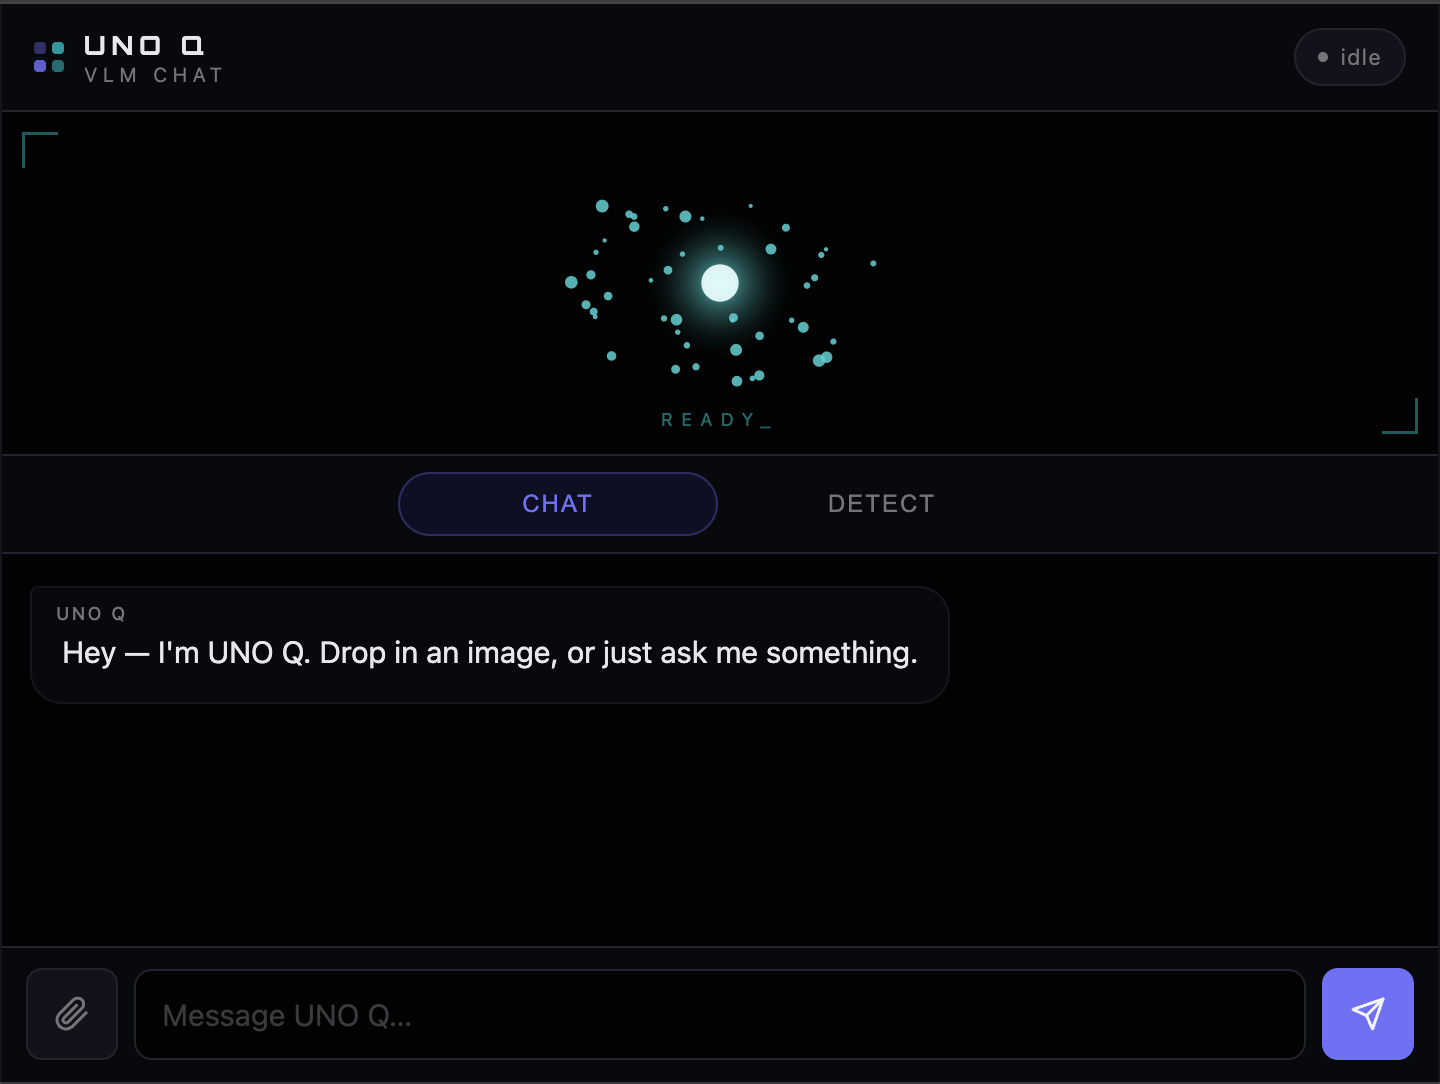
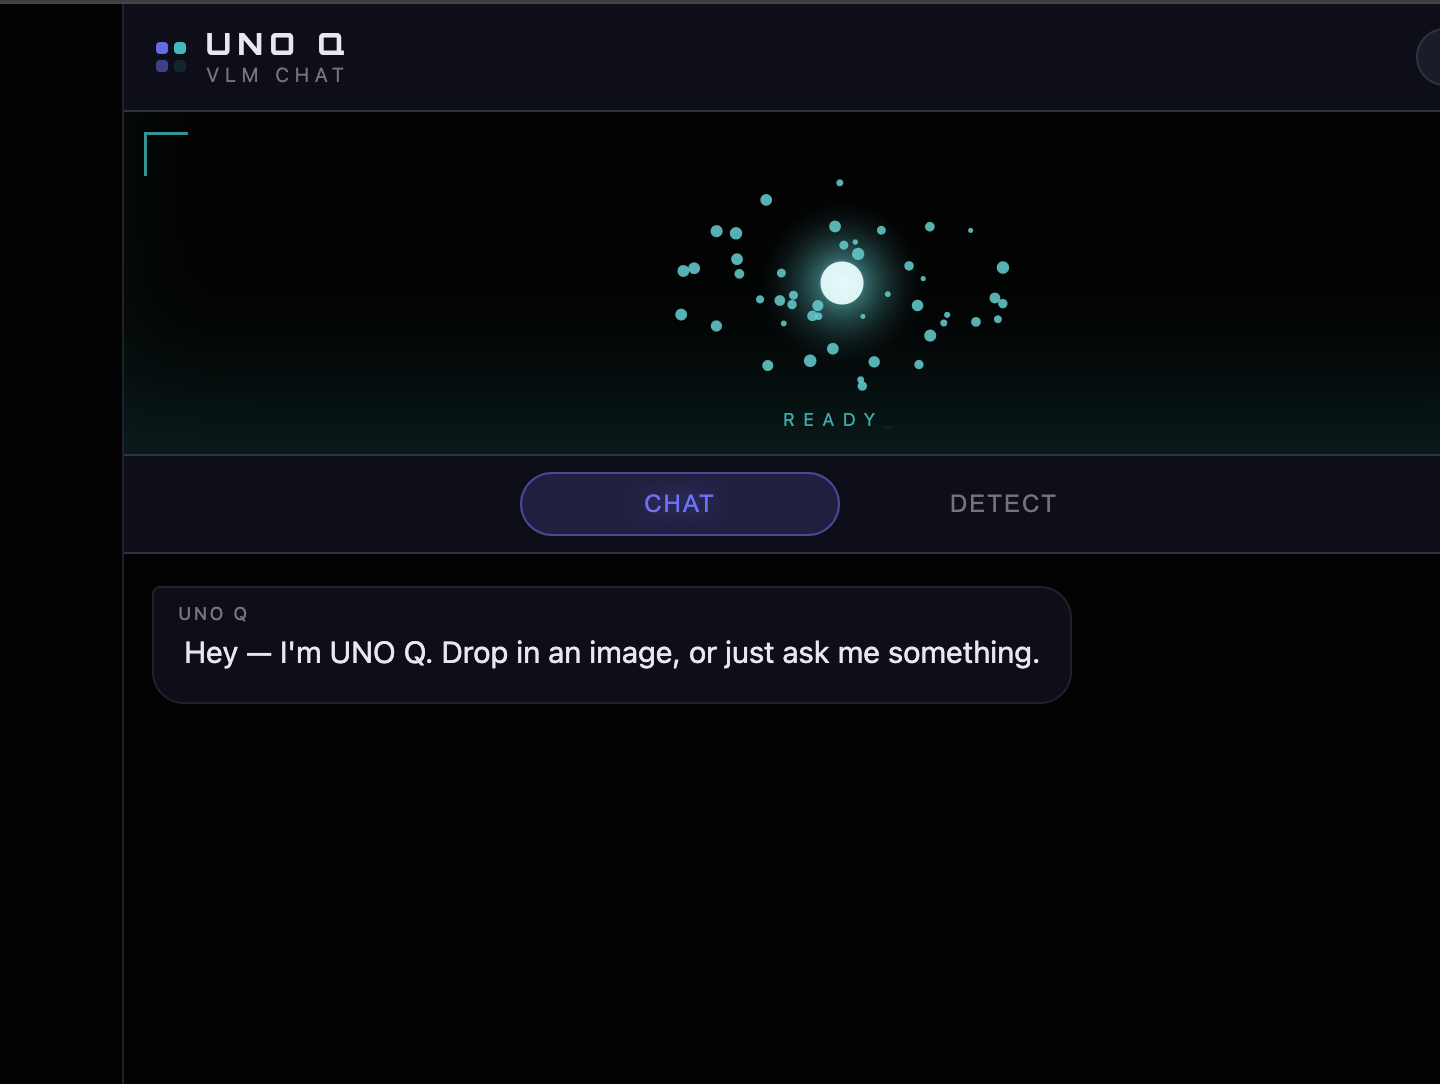
design: more depth and contrast — surfaces, stage ambient, tab glow
- Surface ramp much more legible (L 0.09→0.17→0.23 vs flat 0.09→0.14→0.19)
- Background gradient nodes at L=0.38 (were at L=0.18, barely visible)
- Teal ambient inset shadow in stage — orb feels illuminated
- Corner brackets 75% opacity, larger (22px)
- CHAT tab: violet border + text-shadow glow when active
- Blink animation: full 0→1 swing on dot mark
- Send button violet glow on hover
- User bubble border more visible

diff --git a/uno-q-vlm-chat/assets/style.css b/uno-q-vlm-chat/assets/style.css
@@ -15,10 +15,10 @@
 
   /* Surface ramp */
   --bg:        oklch(0.09  0.000   0);   /* near-black body */
-  --surface:   oklch(0.14  0.010 278);   /* panel bg */
-  --surface2:  oklch(0.19  0.015 278);   /* raised / hover */
-  --border:    oklch(0.26  0.018 278);   /* hairline separators */
-  --border-sub:oklch(0.20  0.012 278);   /* subtler inner borders */
+  --surface:   oklch(0.17  0.020 278);   /* panel bg */
+  --surface2:  oklch(0.23  0.028 278);   /* raised / hover */
+  --border:    oklch(0.32  0.028 278);   /* hairline separators */
+  --border-sub:oklch(0.25  0.018 278);   /* subtler inner borders */
 
   /* Text */
   --ink:       oklch(0.93  0.008 280);   /* body text ≥7:1 on bg */
@@ -28,7 +28,7 @@
   /* Brand */
   --primary:   oklch(0.62  0.200 278);   /* violet — CTA, active, focus */
   --primary-hi:oklch(0.68  0.195 278);   /* hover lift */
-  --primary-lo:oklch(0.18  0.040 278);   /* tinted surface (user bubble bg) */
+  --primary-lo:oklch(0.21  0.080 278);   /* tinted surface (user bubble bg) */
   --on-primary:oklch(0.97  0.000   0);   /* text on filled primary */
   --accent:    oklch(0.74  0.145 195);   /* teal — secondary / detecting */
 
@@ -58,10 +58,10 @@
     color-scheme: light;
 
     --bg:        oklch(0.97  0.000   0);
-    --surface:   oklch(0.93  0.010 278);
-    --surface2:  oklch(0.89  0.016 278);
-    --border:    oklch(0.80  0.020 278);
-    --border-sub:oklch(0.86  0.014 278);
+    --surface:   oklch(0.91  0.014 278);
+    --surface2:  oklch(0.86  0.020 278);
+    --border:    oklch(0.76  0.024 278);
+    --border-sub:oklch(0.82  0.016 278);
 
     --ink:       oklch(0.16  0.015 278);
     --muted:     oklch(0.45  0.010 278);
@@ -69,7 +69,7 @@
 
     --primary:   oklch(0.48  0.220 278);
     --primary-hi:oklch(0.43  0.215 278);
-    --primary-lo:oklch(0.91  0.030 278);
+    --primary-lo:oklch(0.88  0.055 278);
     --on-primary:oklch(0.97  0.000   0);
     --accent:    oklch(0.50  0.150 195);
 
@@ -102,13 +102,13 @@ body {
   min-height: 100dvh;
 }
 
-/* Very subtle depth — two faint violet radial nodes. Not a hero, not glow-for-glow. */
+/* Ambient depth — visible radial nodes that read on near-black */
 body::before {
   content: "";
   position: fixed; inset: 0; z-index: 0; pointer-events: none;
   background:
-    radial-gradient(ellipse 60% 40% at 85% 0%,   oklch(0.18 0.06 278 / 0.5), transparent 60%),
-    radial-gradient(ellipse 50% 35% at 10% 100%,  oklch(0.18 0.05 195 / 0.4), transparent 55%);
+    radial-gradient(ellipse 80% 65% at 100% -5%,  oklch(0.38 0.15 278 / 0.55), transparent 65%),
+    radial-gradient(ellipse 65% 55% at  -5% 108%, oklch(0.34 0.12 195 / 0.48), transparent 60%);
 }
 
 /* ─── App shell ──────────────────────────────────────────────────────────── */
@@ -139,19 +139,19 @@ body::before {
 }
 .dot-mark i {
   width: 6px; height: 6px; border-radius: 2px;
-  background: var(--primary); opacity: 0.7;
+  background: var(--primary);
   animation: blink 2.8s ease-in-out infinite;
 }
-.dot-mark i:nth-child(2) { background: var(--accent);   animation-delay: 0.5s; opacity: 0.55; }
-.dot-mark i:nth-child(3) { animation-delay: 1.0s; opacity: 0.40; }
-.dot-mark i:nth-child(4) { background: var(--accent);   animation-delay: 1.5s; opacity: 0.30; }
+.dot-mark i:nth-child(2) { background: var(--accent);  animation-delay: 0.5s; }
+.dot-mark i:nth-child(3) { animation-delay: 1.0s; }
+.dot-mark i:nth-child(4) { background: var(--accent);  animation-delay: 1.5s; }
 
-@keyframes blink { 0%, 100% { opacity: 0.15 } 50% { opacity: 0.85 } }
+@keyframes blink { 0%, 100% { opacity: 0.10 } 50% { opacity: 1 } }
 
 .title { line-height: 1; }
 .title strong {
   font-family: 'Orbitron', ui-monospace, monospace;
-  font-weight: 700; font-size: 13px; letter-spacing: 3px;
+  font-weight: 700; font-size: 15px; letter-spacing: 3.5px;
   text-transform: uppercase; color: var(--ink);
 }
 .title .sub {
@@ -195,12 +195,14 @@ body::before {
   background: oklch(0.09 0.000 0);   /* constant across themes */
   border-bottom: 1px solid var(--border);
   overflow: hidden;
+  /* Teal ambient light pools at the bottom — makes the orb feel like it's illuminating */
+  box-shadow: inset 0 -50px 60px -20px oklch(0.74 0.145 195 / 0.14);
 }
 /* Corner brackets in accent — structural, not decorative */
 #stage-wrap::before, #stage-wrap::after {
-  content: ""; position: absolute; width: 18px; height: 18px;
+  content: ""; position: absolute; width: 22px; height: 22px;
   pointer-events: none; z-index: 5;
-  border: 1.5px solid var(--accent); opacity: 0.45;
+  border: 1.5px solid var(--accent); opacity: 0.75;
 }
 #stage-wrap::before { top: 10px; left: 10px; border-right: 0; border-bottom: 0; }
 #stage-wrap::after  { bottom: 10px; right: 10px; border-left: 0; border-top: 0; }
@@ -211,7 +213,7 @@ body::before {
   position: absolute; left: 0; right: 0; bottom: 10px;
   text-align: center; z-index: 6; pointer-events: none;
   font-size: 9px; letter-spacing: 4px; text-transform: uppercase;
-  color: oklch(0.74 0.145 195); opacity: 0.55;
+  color: oklch(0.74 0.145 195); opacity: 0.85;
 }
 #stage-label::after { content: "_"; animation: blink 1s steps(1) infinite; }
 
@@ -233,8 +235,9 @@ body::before {
 .tab:hover { color: var(--ink); background: var(--surface2); }
 .tab.active {
   color: var(--primary);
-  background: var(--primary-lo);
-  border-color: oklch(from var(--primary) l c h / 0.30);
+  background: oklch(0.62 0.200 278 / 0.18);
+  border-color: oklch(from var(--primary) l c h / 0.50);
+  text-shadow: 0 0 12px oklch(0.62 0.200 278 / 0.60);
 }
 
 /* ─── Views ──────────────────────────────────────────────────────────────── */
@@ -275,7 +278,7 @@ body::before {
 .msg.user {
   align-self: flex-end;
   background: var(--primary-lo);
-  border-color: oklch(from var(--primary) l c h / 0.22);
+  border-color: oklch(from var(--primary) l c h / 0.40);
   color: var(--ink);
   border-top-right-radius: 4px;
 }
@@ -361,7 +364,7 @@ body::before {
   color: var(--on-primary);
   transition: background 0.15s, transform 0.1s;
 }
-.icon-btn.send:hover  { background: var(--primary-hi); border-color: var(--primary-hi); }
+.icon-btn.send:hover  { background: var(--primary-hi); border-color: var(--primary-hi); box-shadow: 0 4px 20px oklch(0.62 0.200 278 / 0.50); }
 .icon-btn.send:active { transform: scale(0.92); }
 .icon-btn.send:disabled { opacity: 0.40; cursor: default; transform: none; }
 